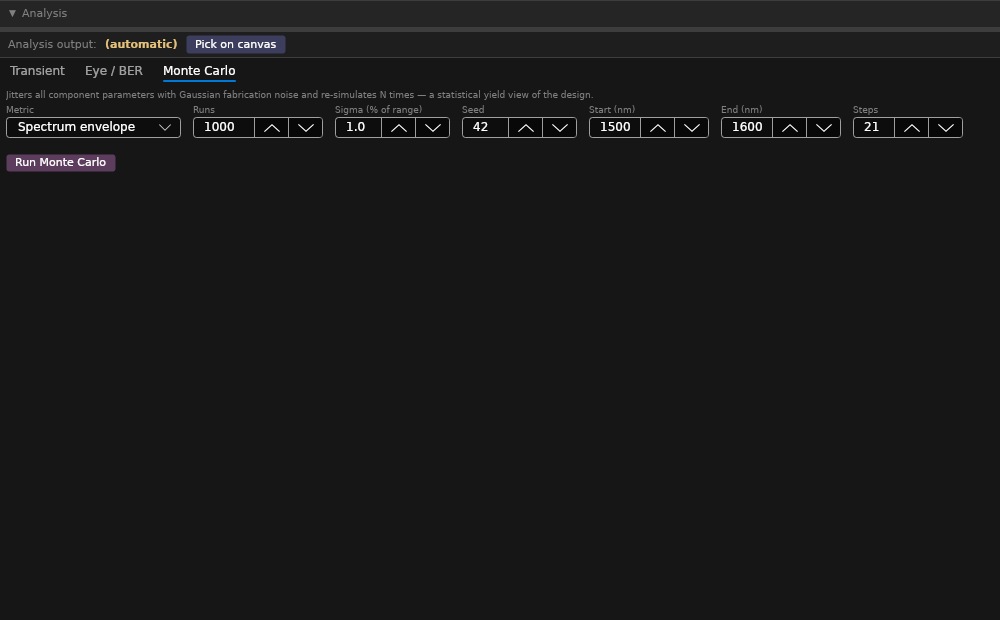
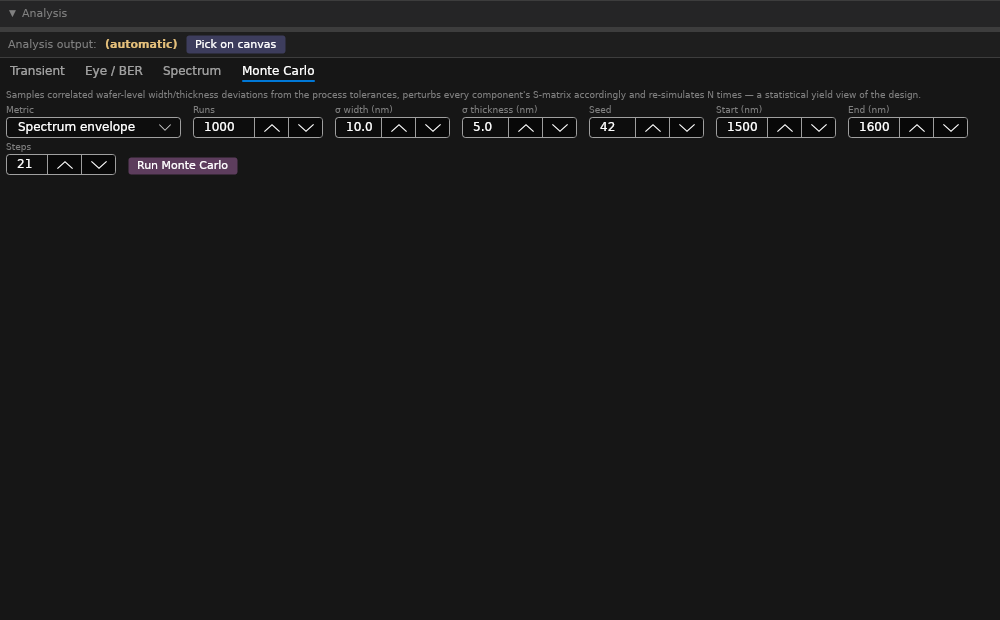
Regenerate Monte-Carlo walkthrough screenshots for the new tolerance UI
The Spectrum tab (#824) shifted the Monte Carlo tab to index 3, so the
screenshot test captured the wrong panel and the committed PNGs still
showed the #826 single-sigma UI. Select the correct tab, assert the
MonteCarloPanel is actually visible so a future reorder fails loudly,
and recommit the regenerated PNGs + manifest.

diff --git a/UnitTests/UI/Issue818MonteCarloScreenshotTests.cs b/UnitTests/UI/Issue818MonteCarloScreenshotTests.cs
@@ -3,6 +3,7 @@ using Avalonia.Headless;
 using Avalonia.Headless.XUnit;
 using Avalonia.Media.Imaging;
 using Avalonia.Threading;
+using Avalonia.VisualTree;
 using CAP.Avalonia.ViewModels.Analysis.MonteCarloAnalysis;
 using CAP.Avalonia.Views.Panels;
 using CAP_Core.Analysis.MonteCarloAnalysis;
@@ -27,6 +28,7 @@ public class Issue818MonteCarloScreenshotTests
 {
     private const int WindowWidth = 1000;
     private const int WindowHeight = 620;
+    private const int MonteCarloTabIndex = 3;
     private const int CaptureAttempts = 3;
     private const int RunCount = 200;
     private const int StartNm = 1500;
@@ -47,7 +49,7 @@ public class Issue818MonteCarloScreenshotTests
 
         var vm = MainViewModelTestHelper.CreateMainViewModel();
         vm.BottomPanel.Analysis.IsVisible = true;
-        vm.BottomPanel.Analysis.SelectedTabIndex = 2;
+        vm.BottomPanel.Analysis.SelectedTabIndex = MonteCarloTabIndex;
         vm.BottomPanel.Analysis.SetDockHeight(420);
         var mc = vm.BottomPanel.Analysis.MonteCarlo;
 
@@ -55,6 +57,11 @@ public class Issue818MonteCarloScreenshotTests
         var window = new Window { Width = WindowWidth, Height = WindowHeight, Content = dock };
         window.Show();
         Dispatcher.UIThread.RunJobs();
+
+        // Guard against tab reordering silently producing screenshots of the wrong panel.
+        dock.GetVisualDescendants().OfType<MonteCarloPanel>()
+            .Any(p => p.IsEffectivelyVisible)
+            .ShouldBeTrue("The Monte Carlo panel is not the visible analysis tab — update MonteCarloTabIndex.");
 
         try
         {
